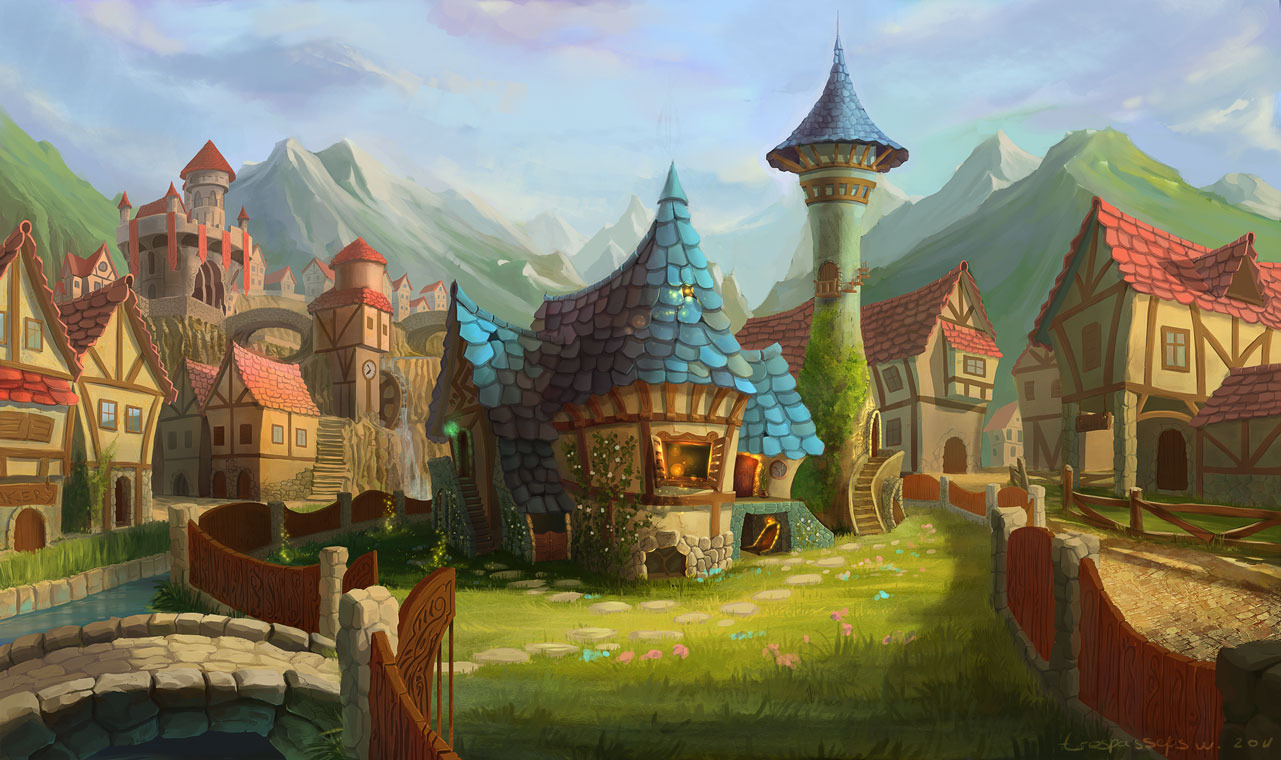
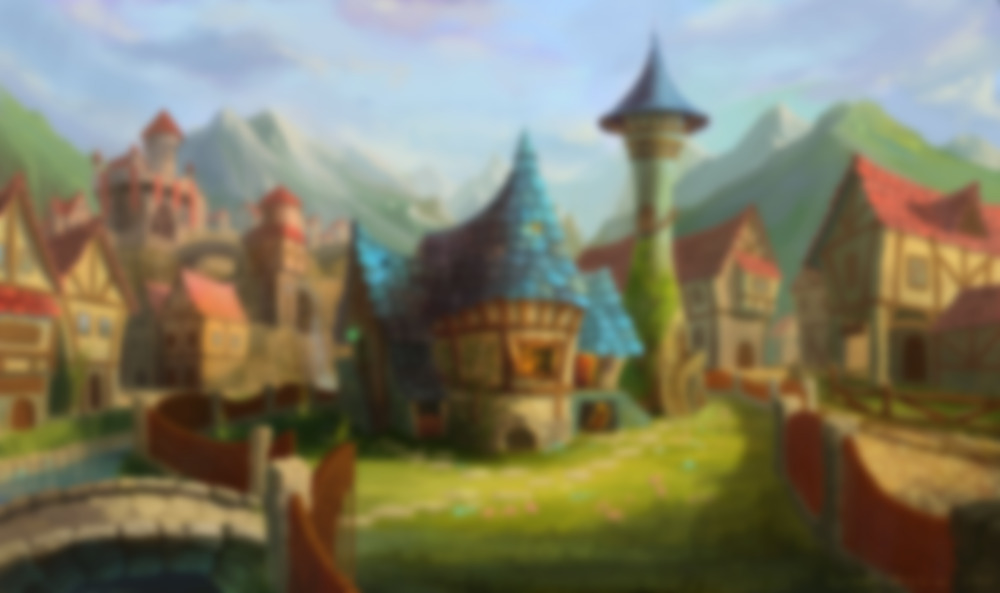
blur background fix

diff --git a/public/css/style.css b/public/css/style.css
@@ -12,11 +12,6 @@ body {
   	-o-background-size: cover;
   	background-size: cover;
 
-  	-webkit-filter: blur(5px);
-  	-moz-filter: blur(5px);
-  	-o-filter: blur(5px);
-  	-ms-filter: blur(5px);
-  	filter: blur(5px);
 }
 
 .corner {
